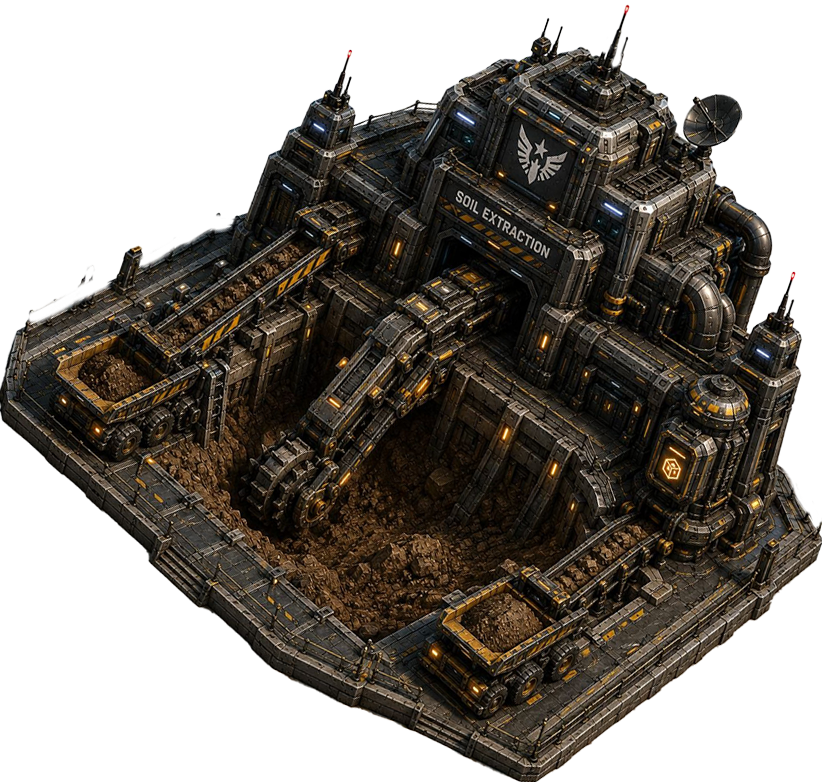
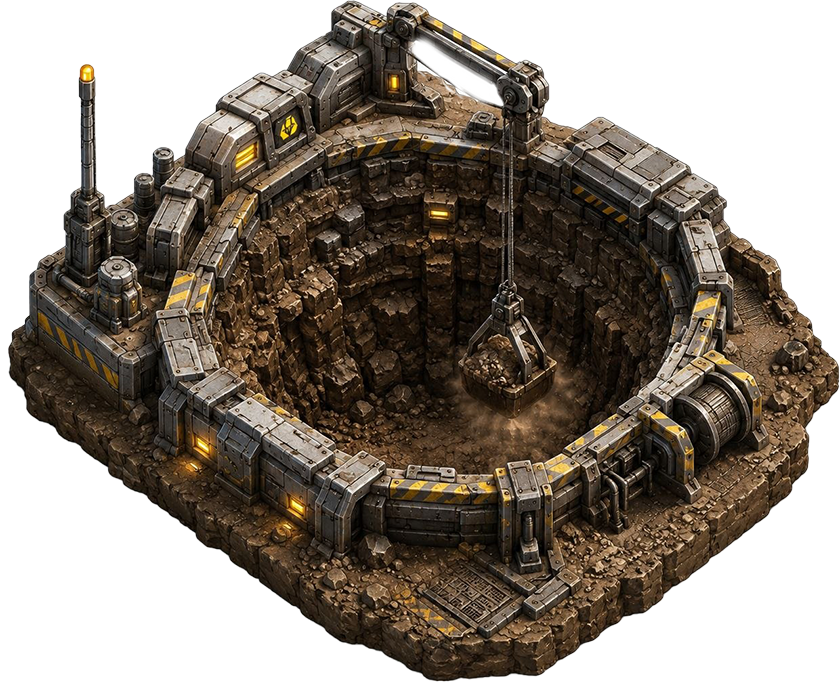
.

diff --git a/src/main/java/model/time/TaskProcessor.java b/src/main/java/model/time/TaskProcessor.java
@@ -135,7 +135,19 @@ public class TaskProcessor {
                 }
 
                 for (ResourcesType resourcesType : task.getResourcesToAdd().keySet()) {
-                    resourcesManagement.addResource(task.getResourcesToAdd().get(resourcesType), resourcesType);
+                    if(resourcesType == ResourcesType.CLEAN_SOIL){
+                        if(village.getResources().getAmount(ResourcesType.DIRTY_SOIL) > 0){
+                            resourcesManagement.addResource(task.getResourcesToAdd().get(resourcesType), resourcesType);
+                            continue;
+                        }
+                    } else if(resourcesType == ResourcesType.CLEAN_WATER){
+                        if(village.getResources().getAmount(ResourcesType.DIRTY_WATER) > 0){
+                            resourcesManagement.addResource(task.getResourcesToAdd().get(resourcesType), resourcesType);
+                            continue;
+                        }
+                    } else {
+                        resourcesManagement.addResource(task.getResourcesToAdd().get(resourcesType), resourcesType);
+                    }
                 }
 
                 for (ResourcesType resourcesType : task.getResourcesToWithdraw().keySet()) {
@@ -143,14 +155,16 @@ public class TaskProcessor {
                 }
 
                 for (UUID uuid : task.getProductionBuildingsToReschedule()) {
+                    ProductionTask nextTask = null;
                     building1 = village.getBuildings().get(uuid);
 
                     if (building1 == null)
                         continue;
 
-                    System.out.println(building1.getBuildingStatus());
                     if (building1.getBuildingStatus() == BuildingStatus.ACTIVE) {
-                        ProductionTask nextTask = ProductionTaskFactory.buildProductionTask(building1);
+
+                        nextTask = ProductionTaskFactory.buildProductionTask(building1);
+
                         if (nextTask != null) {
                             village.getTimedOperation().put(nextTask.getId(), nextTask);
                         }

diff --git a/src/main/java/service/map/GameMapController.java b/src/main/java/service/map/GameMapController.java
@@ -163,9 +163,7 @@ public class GameMapController {
             this.selectedBuilding = clickedBuilding;
             this.selectedPlant = null;
             System.out.println("Selected: " + selectedBuilding.getType() + " level: " + selectedBuilding.getLevel()
-                    + " Status: " + selectedBuilding.getBuildingStatus());
-
-            System.out.println(clickedBuilding.getClass().getName());
+                    + " Status: " + selectedBuilding.getBuildingStatus() + "X: " + selectedBuilding.getPosition().getX() + "Y: " + selectedBuilding.getPosition().getY());
 
             if(selectedBuilding instanceof ArmyProducer && villageController != null) {
                 villageController.showDecisionPanel(selectedBuilding);
@@ -182,7 +180,7 @@ public class GameMapController {
                 return;
             }
 
-            System.out.println("Selected: " + selectedBuilding.getType());
+
 
             if (villageController != null) {
                 villageController.showBuildingInfo(selectedBuilding);
@@ -195,10 +193,11 @@ public class GameMapController {
                 villageController.showPlantInfo(clickedPlant);
             }
         } else {
-            this.selectedBuilding = null;
+
             this.selectedPlant = null;
             if (villageController != null) {
 
+                System.out.println();
                 villageController.hideInfoPanel();
                 villageController.hideShopPanel();
                 villageController.hideAddBuildingPanel();

diff --git a/src/main/java/service/map/GameCanvasView.java b/src/main/java/service/map/GameCanvasView.java
@@ -118,7 +118,7 @@ public class GameCanvasView extends Canvas {
                     1,1,1));
 
             buildingGraphics.put(BuildingType.DIRTY_SOIL_MINE, new BuildingGraphicProperties(
-                    new Image(Objects.requireNonNull(getClass().getResourceAsStream("/images/building/SoilMine.png"))),
+                    new Image(Objects.requireNonNull(getClass().getResourceAsStream("/images/building/SoilMine-2.png"))),
                     1,1,1));
 
 
@@ -127,7 +127,7 @@ public class GameCanvasView extends Canvas {
                 1,1,1));
 
             buildingGraphics.put(BuildingType.RESEARCH_CENTER, new BuildingGraphicProperties(
-                    new Image(Objects.requireNonNull(getClass().getResourceAsStream("/images/building/researchCenter.png"))),
+                    new Image(Objects.requireNonNull(getClass().getResourceAsStream("/images/building/researchCenter-2.png"))),
                     1,1,1));
 
             buildingGraphics.put(BuildingType.LABORATORY, new BuildingGraphicProperties(
@@ -153,7 +153,7 @@ public class GameCanvasView extends Canvas {
                     1,1,1));
 
             buildingGraphics.put(BuildingType.CUSTOMHOUSE, new BuildingGraphicProperties(
-                    new Image(Objects.requireNonNull(getClass().getResourceAsStream("/images/building/customs.png"))),
+                    new Image(Objects.requireNonNull(getClass().getResourceAsStream("/images/building/customs-2.png"))),
                     1,1,1));
 
             buildingGraphics.put(BuildingType.SENTINEL_DEFENSIVE, new BuildingGraphicProperties(
@@ -173,7 +173,7 @@ public class GameCanvasView extends Canvas {
                     1,1,1));
 
             buildingGraphics.put(BuildingType.WOOD_STORAGE, new BuildingGraphicProperties(
-                    new Image(Objects.requireNonNull(getClass().getResourceAsStream("/images/building/wood-storage-2.png"))),
+                    new Image(Objects.requireNonNull(getClass().getResourceAsStream("/images/building/wood-storage-2 (2).png"))),
                     1,1,1));
 
             buildingGraphics.put(BuildingType.GUNPOWDER_STORAGE, new BuildingGraphicProperties(

diff --git a/src/main/java/model/village/Village.java b/src/main/java/model/village/Village.java
@@ -12,11 +12,10 @@ import model.building.Plant;
 import model.building.*;
 import model.finalPart.GlobalTower;
 import model.resources.Resources;
-import model.time.RandomEventTask;
-import model.time.TimedOperation;
-import model.time.TimedOperationType;
+import model.time.*;
 import model.world.Coordinate;
 import service.alliance.AllianceRequest;
+import service.buildings.BuildingFactory;
 import service.filehandeling.LoadService;
 import service.map.GameMap;
 import service.resource.ResourcesManagement;

diff --git a/src/main/java/model/resources/Resources.java b/src/main/java/model/resources/Resources.java
@@ -20,8 +20,8 @@ public class Resources implements Serializable {
         this.iron = 80000;
         this.gunPowder = 80000;
         this.stone = 80000;
-        this.dirtyWater = 80000;
-        this.dirtySoil = 80000;
+        this.dirtyWater = 0;
+        this.dirtySoil = 0;
         this.cleanWater = 1000;
         this.cleanSoil = 1000;
         this.coin = 2000;